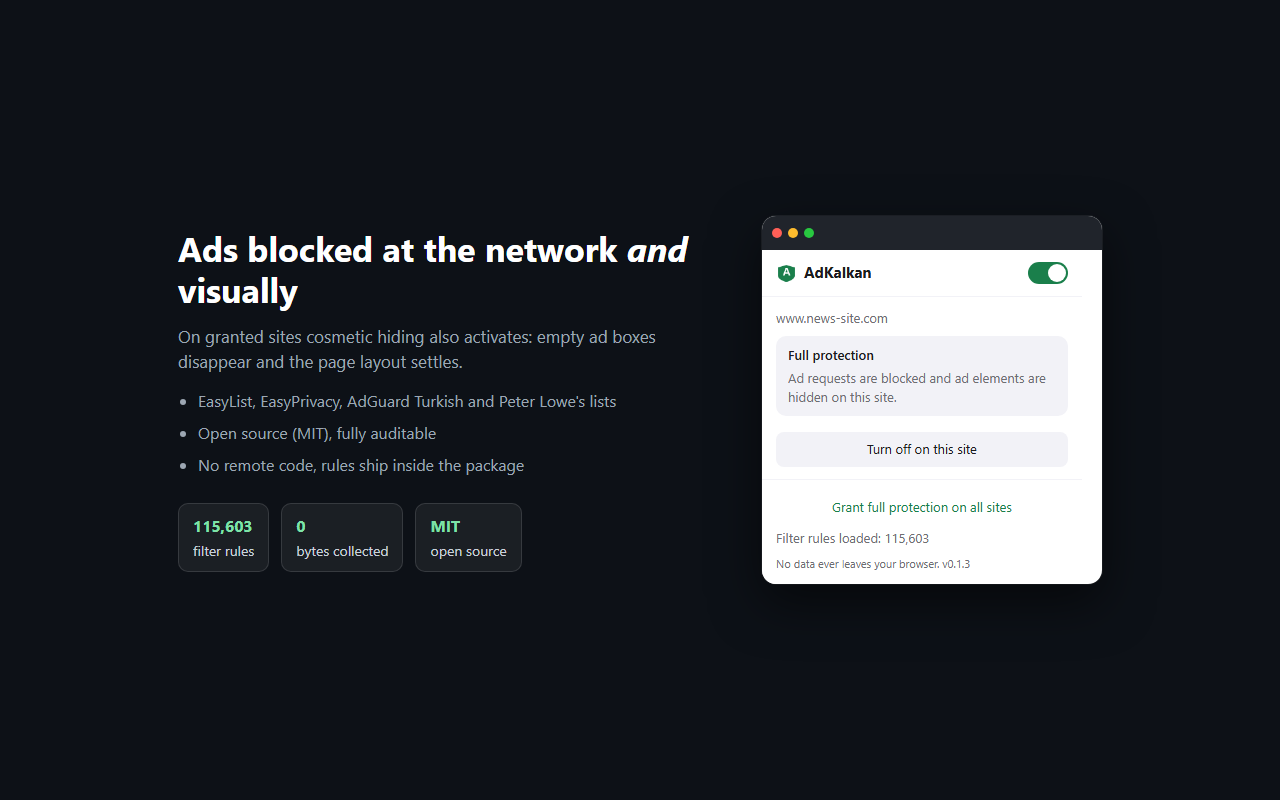
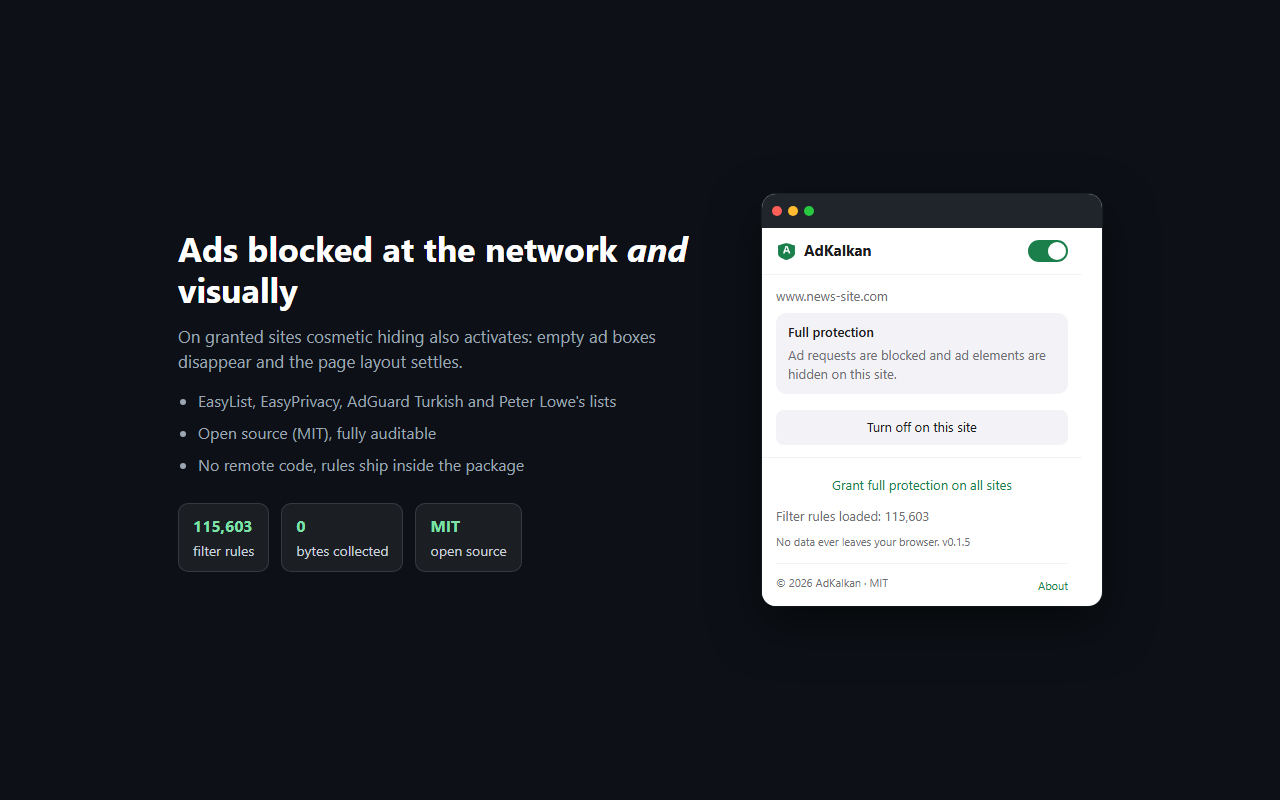
v0.1.5: About page (copyright, license, credits, privacy, support), popup footer, support email

Changed region(s): [[0.5938, 0.5938, 0.875, 0.7812], [0.5938, 0.25, 0.875, 0.5], [0.6562, 0.5312, 0.7812, 0.5625]]

diff --git a/extension/options/options.html b/extension/options/options.html
@@ -1,0 +1,69 @@
+<!DOCTYPE html>
+<html>
+<head>
+  <meta charset="utf-8">
+  <meta name="viewport" content="width=device-width,initial-scale=1">
+  <title data-i18n="optTitle"></title>
+  <link rel="stylesheet" href="options.css">
+</head>
+<body>
+  <header>
+    <img src="../icons/icon48.png" alt="" width="36" height="36">
+    <div>
+      <h1 data-i18n="optTitle"></h1>
+      <p class="ver"><span data-i18n="optVersionLabel"></span> <span id="version"></span></p>
+    </div>
+  </header>
+
+  <main>
+    <p class="intro" data-i18n="optIntro"></p>
+
+    <section class="card highlight">
+      <h2 data-i18n="optNoDataTitle"></h2>
+      <p data-i18n="optNoDataText"></p>
+    </section>
+
+    <section class="card">
+      <h2 data-i18n="optHowTitle"></h2>
+      <p data-i18n="optHowText"></p>
+    </section>
+
+    <section class="card">
+      <h2 data-i18n="optPrivacyTitle"></h2>
+      <p data-i18n="optPrivacyText"></p>
+      <a class="btn" href="https://sosyalilgi.github.io/adkalkan/privacy.html" target="_blank" rel="noreferrer"
+         data-i18n="optPrivacyLink"></a>
+    </section>
+
+    <section class="card">
+      <h2 data-i18n="optListsTitle"></h2>
+      <p data-i18n="optListsText"></p>
+      <ul class="lists">
+        <li><a href="https://easylist.to/easylist/easylist.txt" target="_blank" rel="noreferrer">EasyList</a> — easylist.to</li>
+        <li><a href="https://easylist.to/easylist/easyprivacy.txt" target="_blank" rel="noreferrer">EasyPrivacy</a> — easylist.to</li>
+        <li><a href="https://filters.adtidy.org/extension/chromium/filters/13.txt" target="_blank" rel="noreferrer">AdGuard Turkish filter</a> — AdGuard Filters</li>
+        <li><a href="https://pgl.yoyo.org/adservers/" target="_blank" rel="noreferrer">Peter Lowe's List</a> — pgl.yoyo.org</li>
+      </ul>
+    </section>
+
+    <section class="card">
+      <h2 data-i18n="optLicenseTitle"></h2>
+      <p data-i18n="optLicenseText"></p>
+      <a class="btn" href="https://github.com/sosyalilgi/adkalkan/blob/main/LICENSE" target="_blank" rel="noreferrer">MIT License</a>
+    </section>
+
+    <section class="card">
+      <h2 data-i18n="optSupportTitle"></h2>
+      <p>
+        <a href="https://github.com/sosyalilgi/adkalkan/issues" target="_blank" rel="noreferrer">GitHub Issues</a> ·
+        <a id="mailLink" href="mailto:ferhatdogan55@gmail.com">ferhatdogan55@gmail.com</a> ·
+        <a href="https://github.com/sosyalilgi/adkalkan" target="_blank" rel="noreferrer">Source code</a>
+      </p>
+    </section>
+  </main>
+
+  <footer data-i18n="optCopyright"></footer>
+
+  <script src="options.js"></script>
+</body>
+</html>

diff --git a/tools/make-about-shot.js b/tools/make-about-shot.js
@@ -1,0 +1,54 @@
+// Renders the real options page (same directory, so CSS/icons resolve) with
+// i18n strings inlined, to store-assets/about-1280x800.png.
+// Used as a store listing asset and for visual QA. Run: node tools/make-about-shot.js
+import fs from "node:fs";
+import path from "node:path";
+import { spawnSync } from "node:child_process";
+import { fileURLToPath } from "node:url";
+
+const ROOT = path.resolve(path.dirname(fileURLToPath(import.meta.url)), "..");
+const EXT = path.join(ROOT, "extension");
+const OPTS = path.join(EXT, "options");
+const OUT = path.join(ROOT, "store-assets");
+
+const CHROME = [
+  "C:\\Program Files\\Google\\Chrome\\Application\\chrome.exe",
+  "C:\\Program Files (x86)\\Google\\Chrome\\Application\\chrome.exe"
+].find(p => fs.existsSync(p));
+if (!CHROME) { console.error("Chrome not found"); process.exit(1); }
+
+const locale = process.argv[2] === "en" ? "en" : "tr";
+const messages = JSON.parse(fs.readFileSync(path.join(EXT, "_locales", locale, "messages.json"), "utf8"));
+const version = JSON.parse(fs.readFileSync(path.join(ROOT, "package.json"), "utf8")).version;
+
+// Mirror options.js, but with the messages inlined (no chrome.i18n on a file:// page).
+const inlineScript = `<script>
+const MSG = ${JSON.stringify(messages)};
+const t = k => (MSG[k] && MSG[k].message) || k;
+for (const el of document.querySelectorAll("[data-i18n]")) el.textContent = t(el.dataset.i18n);
+document.getElementById("version").textContent = "v${version}";
+</script>`;
+
+const html = fs.readFileSync(path.join(OPTS, "options.html"), "utf8")
+  .replace('<script src="options.js"></script>', inlineScript);
+
+fs.mkdirSync(OUT, { recursive: true });
+const tmp = path.join(OPTS, "_shot.html");
+fs.writeFileSync(tmp, html);
+
+const png = path.join(OUT, `about-${locale}-1280x800.png`);
+const res = spawnSync(CHROME, [
+  "--headless=new", "--disable-gpu", "--hide-scrollbars", "--force-device-scale-factor=1",
+  "--window-size=1280,800", `--screenshot=${png}`,
+  `--user-data-dir=${path.join(OUT, "_chrome_profile")}`,
+  "file:///" + tmp.replace(/\\/g, "/")
+], { stdio: "pipe" });
+
+fs.rmSync(tmp, { force: true });
+fs.rmSync(path.join(OUT, "_chrome_profile"), { recursive: true, force: true });
+
+if (!fs.existsSync(png)) {
+  console.error(`render failed: ${(res.stderr || "").toString().slice(-300)}`);
+  process.exit(1);
+}
+console.log(`about-${locale}-1280x800.png  ${(fs.statSync(png).size / 1024).toFixed(0)} KB`);

diff --git a/extension/options/options.css b/extension/options/options.css
@@ -1,0 +1,76 @@
+:root {
+  color-scheme: light dark;
+  --accent: #1a7f4b;
+  --accent-soft: rgba(26, 127, 75, .1);
+  --text: #1c1c1e;
+  --muted: #6e6e73;
+  --bg: #f6f7f9;
+  --card: #ffffff;
+  --border: rgba(0, 0, 0, .1);
+}
+@media (prefers-color-scheme: dark) {
+  :root {
+    --text: #f2f2f7;
+    --muted: #98989f;
+    --bg: #17181c;
+    --card: #22242a;
+    --border: rgba(255, 255, 255, .12);
+  }
+}
+* { box-sizing: border-box; }
+body {
+  margin: 0;
+  padding: 32px 20px 56px;
+  font: 14px/1.6 system-ui, "Segoe UI", Arial, sans-serif;
+  background: var(--bg);
+  color: var(--text);
+}
+main, header, footer { max-width: 720px; margin: 0 auto; }
+
+header {
+  display: flex;
+  align-items: center;
+  gap: 14px;
+  padding-bottom: 20px;
+  border-bottom: 1px solid var(--border);
+}
+header h1 { margin: 0; font-size: 22px; }
+.ver { margin: 2px 0 0; color: var(--muted); font-size: 13px; }
+
+.intro { margin: 24px 0; font-size: 15px; }
+
+.card {
+  background: var(--card);
+  border: 1px solid var(--border);
+  border-radius: 12px;
+  padding: 18px 20px;
+  margin: 14px 0;
+}
+.card.highlight { background: var(--accent-soft); border-color: rgba(26, 127, 75, .35); }
+.card h2 { margin: 0 0 8px; font-size: 15px; color: var(--accent); }
+.card p { margin: 0 0 10px; }
+.card p:last-child { margin-bottom: 0; }
+
+a { color: var(--accent); }
+.btn {
+  display: inline-block;
+  background: var(--accent);
+  color: #fff;
+  text-decoration: none;
+  padding: 7px 14px;
+  border-radius: 8px;
+  font-size: 13px;
+}
+.btn:hover { background: #14603a; }
+
+.lists { margin: 10px 0 0; padding-left: 20px; }
+.lists li { margin: 4px 0; }
+
+footer {
+  margin-top: 28px;
+  padding-top: 16px;
+  border-top: 1px solid var(--border);
+  color: var(--muted);
+  font-size: 13px;
+  text-align: center;
+}

diff --git a/extension/popup/popup.css b/extension/popup/popup.css
@@ -74,6 +74,18 @@ button[hidden] { display: none; }
 .grant-msg { color: var(--danger); margin: 6px 0 0; }
 .rules { color: var(--muted); margin: 4px 0 0; }
 .footer-note { color: var(--muted); margin: 2px 0 0; font-size: 11px; }
+.footer-legal {
+  display: flex;
+  align-items: center;
+  justify-content: space-between;
+  gap: 8px;
+  margin-top: 8px;
+  padding-top: 8px;
+  border-top: 1px solid var(--card);
+  color: var(--muted);
+  font-size: 11px;
+}
+button.link.tiny { font-size: 11px; padding: 0; }
 
 .switch { position: relative; width: 40px; height: 22px; flex-shrink: 0; }
 .switch input { opacity: 0; width: 0; height: 0; }

diff --git a/tools/make-screenshots.js b/tools/make-screenshots.js
@@ -99,6 +99,10 @@ html,body{width:1280px;height:800px;margin:0;background:#0d1117;color:#e6edf3;
       <button class="link">${copy[lang].grantAll}</button>
       <p class="rules">${copy[lang].ruleLabel}: ${copy[lang].rules}</p>
       <p class="footer-note">${copy[lang].note} v${version || pkg.version}</p>
+      <div class="footer-legal">
+        <span>© 2026 AdKalkan · MIT</span>
+        <button class="link tiny">${lang === "tr" ? "Hakkında" : "About"}</button>
+      </div>
     </footer>
   </div>
 </div>

diff --git a/extension/popup/popup.js b/extension/popup/popup.js
@@ -15,7 +15,11 @@ function applyStaticI18n() {
     el.textContent = t(el.dataset.i18n);
   }
   $("version").textContent = `v${chrome.runtime.getManifest().version}`;
+  $("copyright").textContent = `© ${new Date().getFullYear()} AdKalkan · MIT`;
+  $("aboutBtn").textContent = t("aboutButton");
 }
+
+$("aboutBtn").addEventListener("click", () => chrome.runtime.openOptionsPage());
 
 async function refresh() {
   const [tab] = await chrome.tabs.query({ active: true, currentWindow: true });

diff --git a/extension/popup/popup.html b/extension/popup/popup.html
@@ -31,6 +31,10 @@
     <button id="revokeBtn" class="link"></button>
     <p id="rulesInfo" class="rules"></p>
     <p class="footer-note"><span data-i18n="footerNote"></span> <span id="version"></span></p>
+    <div class="footer-legal">
+      <span id="copyright"></span>
+      <button id="aboutBtn" class="link tiny"></button>
+    </div>
   </footer>
 
   <script src="popup.js"></script>

diff --git a/extension/options/options.js b/extension/options/options.js
@@ -1,0 +1,6 @@
+const t = key => chrome.i18n.getMessage(key) || key;
+
+for (const el of document.querySelectorAll("[data-i18n]")) {
+  el.textContent = t(el.dataset.i18n);
+}
+document.getElementById("version").textContent = `v${chrome.runtime.getManifest().version}`;

diff --git a/CWS_SUBMISSION.md b/CWS_SUBMISSION.md
@@ -47,12 +47,12 @@ npm run preflight   # CWS uyumluluk denetimi
 | Description | `STORE_LISTING.md` → Description (TR) | 16.000 karakter |
 | Language | English + Türkçe (İkisi de eklenir) | — |
 | Icon | `extension/icons/icon128.png` | 128x128, ≤1 MB |
-| Screenshots | `store-assets/tr-basic-1280x800.png`, `tr-full-…`, `tr-off-…` | 1280x800 veya 640x400 |
+| Screenshots | `store-assets/tr-basic-1280x800.png`, `tr-full-…`, `tr-off-…`, `about-tr-…` | 1280x800 veya 640x400 |
 | Small promo tile | `store-assets/promo-440x280.png` | 440x280 |
 | Category | Productivity | — |
 | Homepage | <https://github.com/sosyalilgi/adkalkan> | — |
 | Support site | <https://github.com/sosyalilgi/adkalkan/issues> | — |
-| Support email | `SUPPORT_EMAIL` (CWS zorunlu kılar) | zorunlu |
+| Support email | ferhatdogan55@gmail.com | zorunlu |
 | Privacy policy | <https://sosyalilgi.github.io/adkalkan/privacy.html> | zorunlu |
 
 > **Not:** Ekran görüntüleri tek dille sunulur (mağaza görselleri yerelleştirilemez).

diff --git a/STORE_LISTING.md b/STORE_LISTING.md
@@ -13,10 +13,10 @@
 | Language | English + Türkçe |
 | Homepage | <https://github.com/sosyalilgi/adkalkan> |
 | Support site | <https://github.com/sosyalilgi/adkalkan/issues> |
-| Support email | `SUPPORT_EMAIL_YOUR_ADDRESS` |
+| Support email | ferhatdogan55@gmail.com |
 | Privacy policy | <https://sosyalilgi.github.io/adkalkan/privacy.html> |
 | Icon | `extension/icons/icon128.png` (128x128) |
-| Screenshots | `store-assets/tr-basic-1280x800.png`, `tr-full-1280x800.png`, `tr-off-1280x800.png` |
+| Screenshots | `store-assets/tr-basic-1280x800.png`, `tr-full-1280x800.png`, `tr-off-1280x800.png`, `about-tr-1280x800.png` |
 | Small promo tile | `store-assets/promo-440x280.png` |
 | Package | `dist/adkalkan-<version>.zip` |
 | Data usage | **No data collected or used** |
